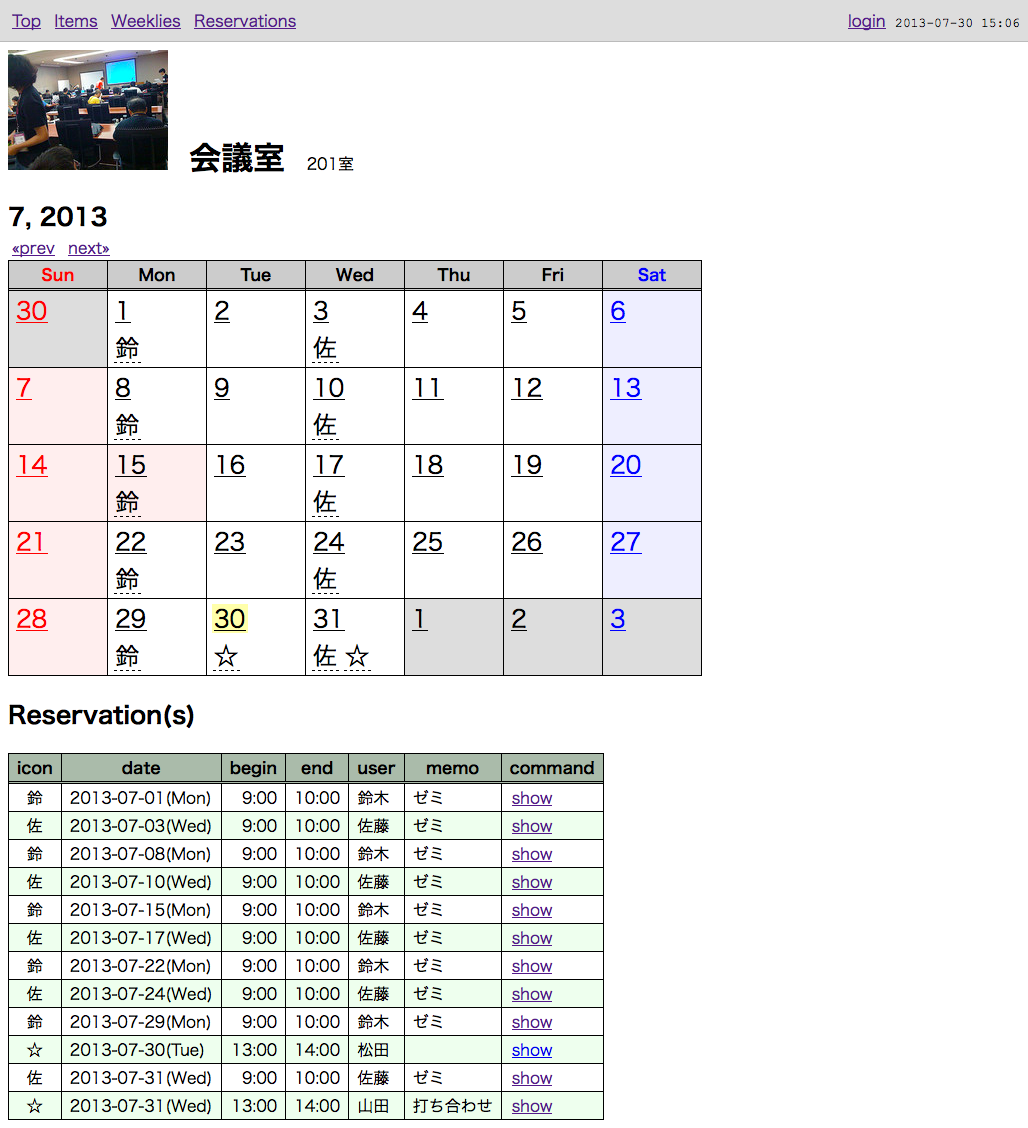
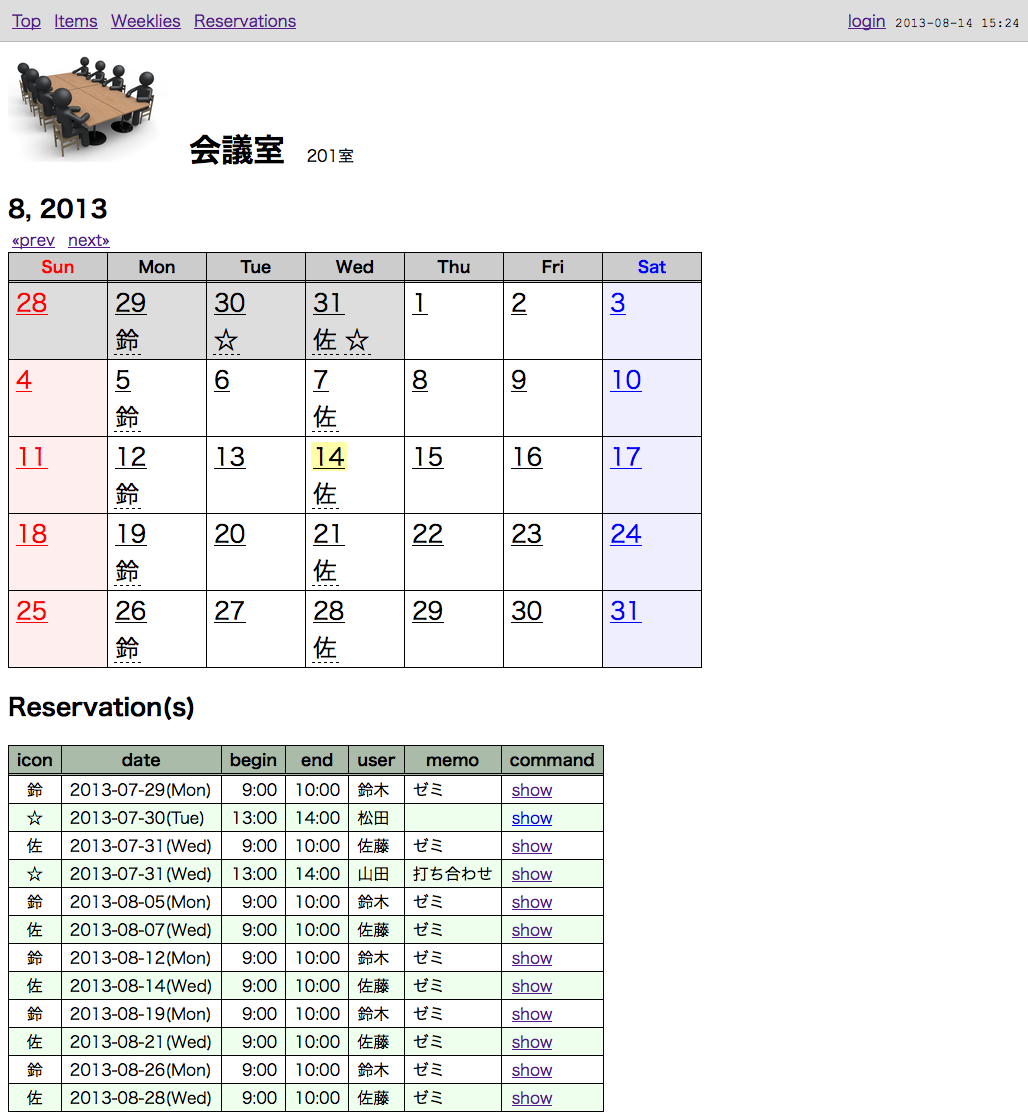
to github

diff --git a/docs/index.html b/docs/index.html
@@ -16,13 +16,13 @@
 <h2>説明</h2>
 <p>
 会議室や機器等の予約管理をするためのオンラインカレンダーです。
-複数の部屋や機器を登録できます。
+複数の部屋や機器等を登録できます。
 </p>
 
 <p>
-職場等の閉じた環境での使用を想定しており、セキュリティよりも利便性を重視しております。
-管理者ユーザーに限定されている操作は、新規グループ作成と新規アイテム作成だけです。
-一般ユーザーはログイン不要で予約ができます。
+職場等の閉じた環境での使用を想定しており、利便性を重視しております。
+一般ユーザーはログイン不要ですぐに予約ができます。
+管理者ユーザーに限定されている操作は新規グループ作成と新規アイテム作成だけです。
 </p>
 
 <h2>特長</h2>
@@ -87,9 +87,15 @@
   <dd>3.7.12</dd>
 </dl>
 
-<h2>会議室のサンプルに使用した写真</h2>
-All sizes | 特別会議室 | Flickr - Photo Sharing!<br>
-<a href="http://www.flickr.com/photos/ysakaki/3732662818/sizes/s/in/photostream/">http://www.flickr.com/photos/ysakaki/3732662818/sizes/s/in/photostream/</a>
+<h2>謝辞</h2>
+ありがとうございます。
+<dl>
+  <dt>会議室のサンプルに使用した写真</dt>
+  <dd><a href="http://free-pictograms.com/12-state/224-state.html">http://free-pictograms.com/12-state/224-state.html</a></dd>
+
+  <dt>datepickerに使用したアイコン</dt>
+  <dd><a href="http://www.pyconic.com/pyconic-icons-free/">http://www.pyconic.com/pyconic-icons-free/</a></dd>
+</dl>
 
 <hr>
 <dl>

diff --git a/README.md b/README.md
@@ -1,0 +1,47 @@
+rsvcal
+======
+
+キーワード
+--------
+
+* 予約管理
+* カレンダー
+* 複数の対象
+
+説明
+---
+
+職場等の閉じた環境での使用を想定しており、利便性を重視しております。
+一般ユーザーはログイン不要ですぐに予約ができます。
+管理者ユーザーに限定されている操作は新規グループ作成と新規アイテム作成だけです。
+
+特長
+----
+
+* ログイン不要ですぐに予約ができる。
+* 毎週の定期予約ができる。
+* 各予約毎にアイコンを設定できる。
+  * アイコンは任意の１文字。標準で用意されたメニューから選択も可能。</li>
+* カレンダーのアイコン上でマウスを静止させることで出現するバルーンヘルプにより、予約内容を確認できる。
+* トップページにある「今日」「今日から数日」により、全アイテムの予約をまとめて確認できる。
+
+できないこと
+----------
+
+* 予約の衝突検知ができない(ダブルブッキングが可能)。
+* 複数日にまたがる予約ができない。
+
+謝辞
+---
+
+ありがとうございます。
+
+会議室のサンプルに使用した写真  
+http://free-pictograms.com/12-state/224-state.html
+
+datepickerに使用したアイコン  
+http://www.pyconic.com/pyconic-icons-free/
+
+- - - - - - - - - - - - - - - - - - - -
+Author: MURAKAMI Teiji  
+GitHub: https://github.com/murakamit/rsvcal
